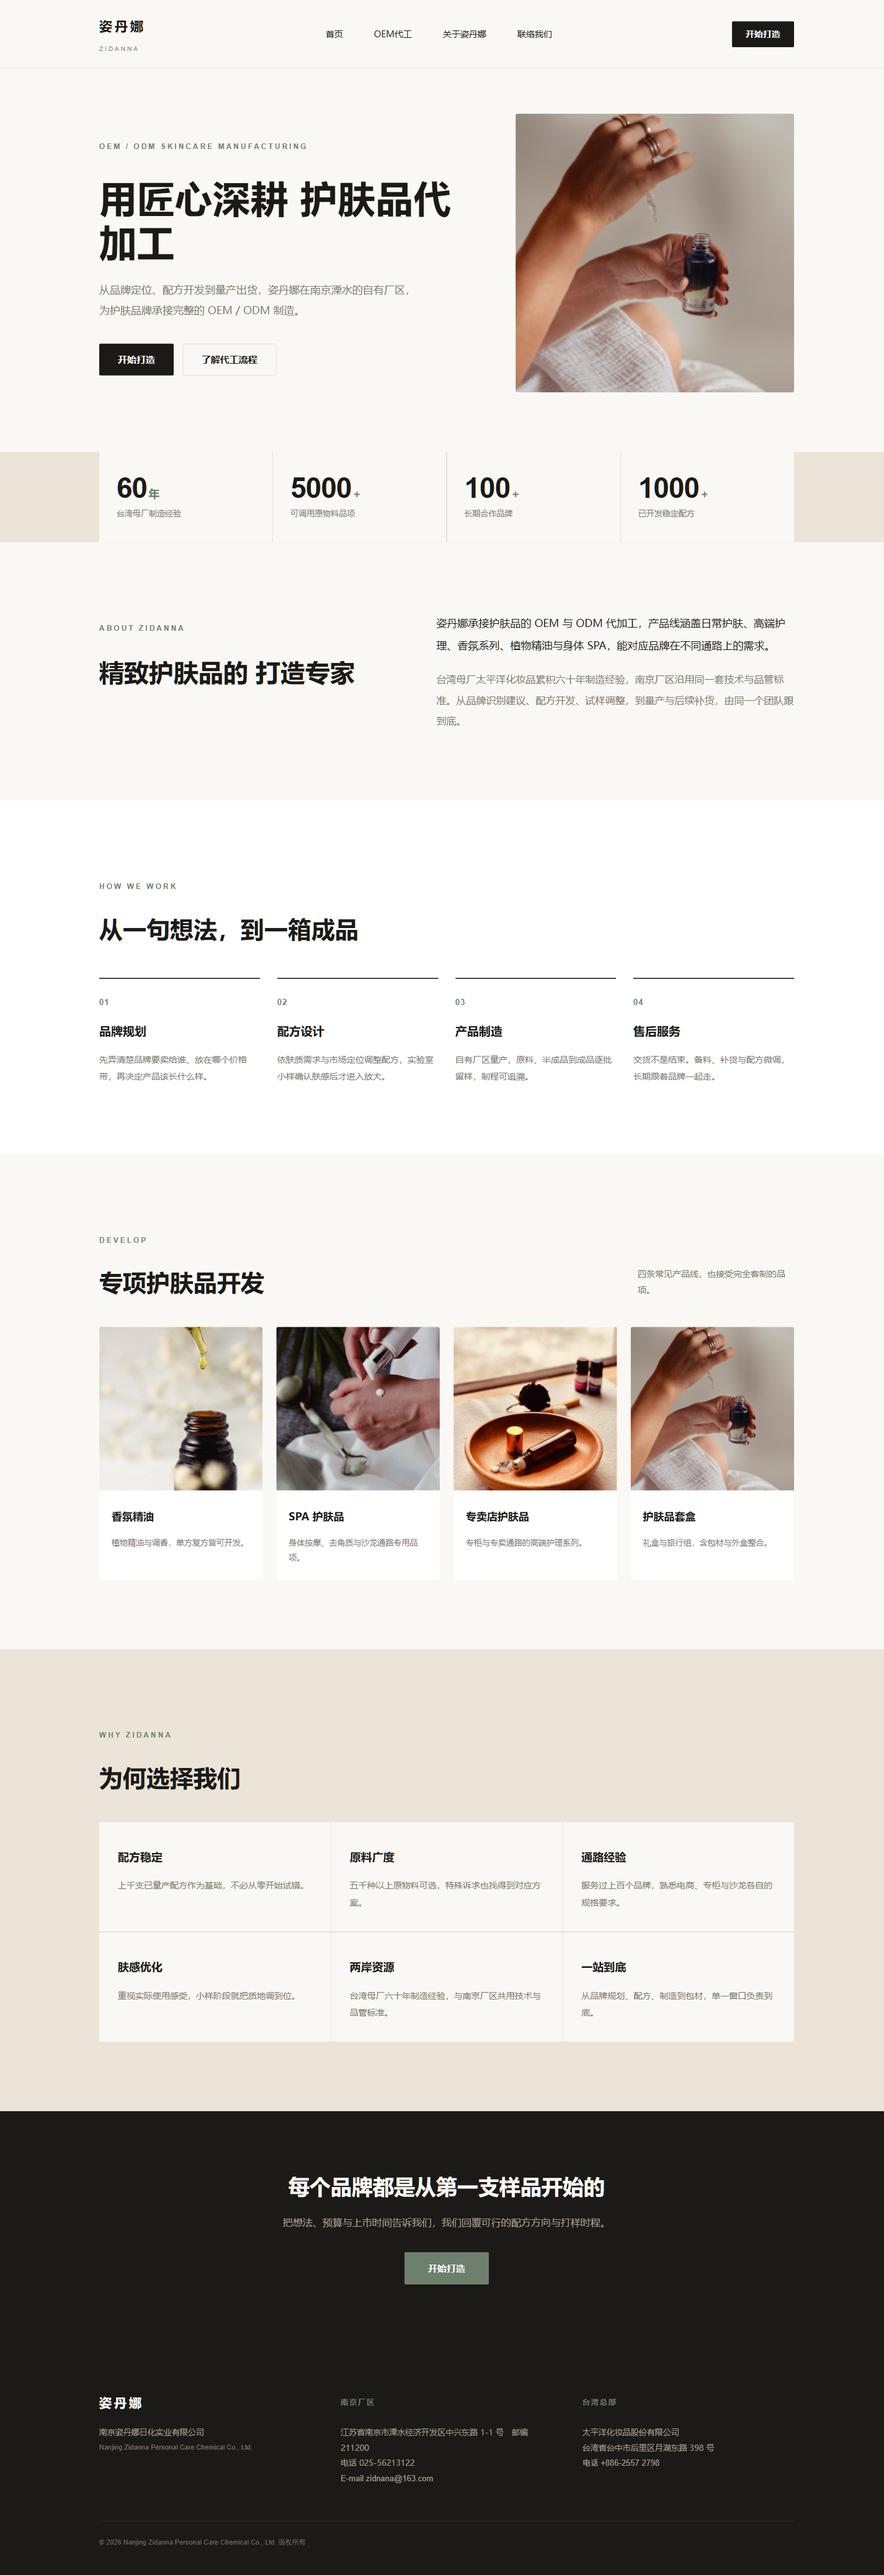
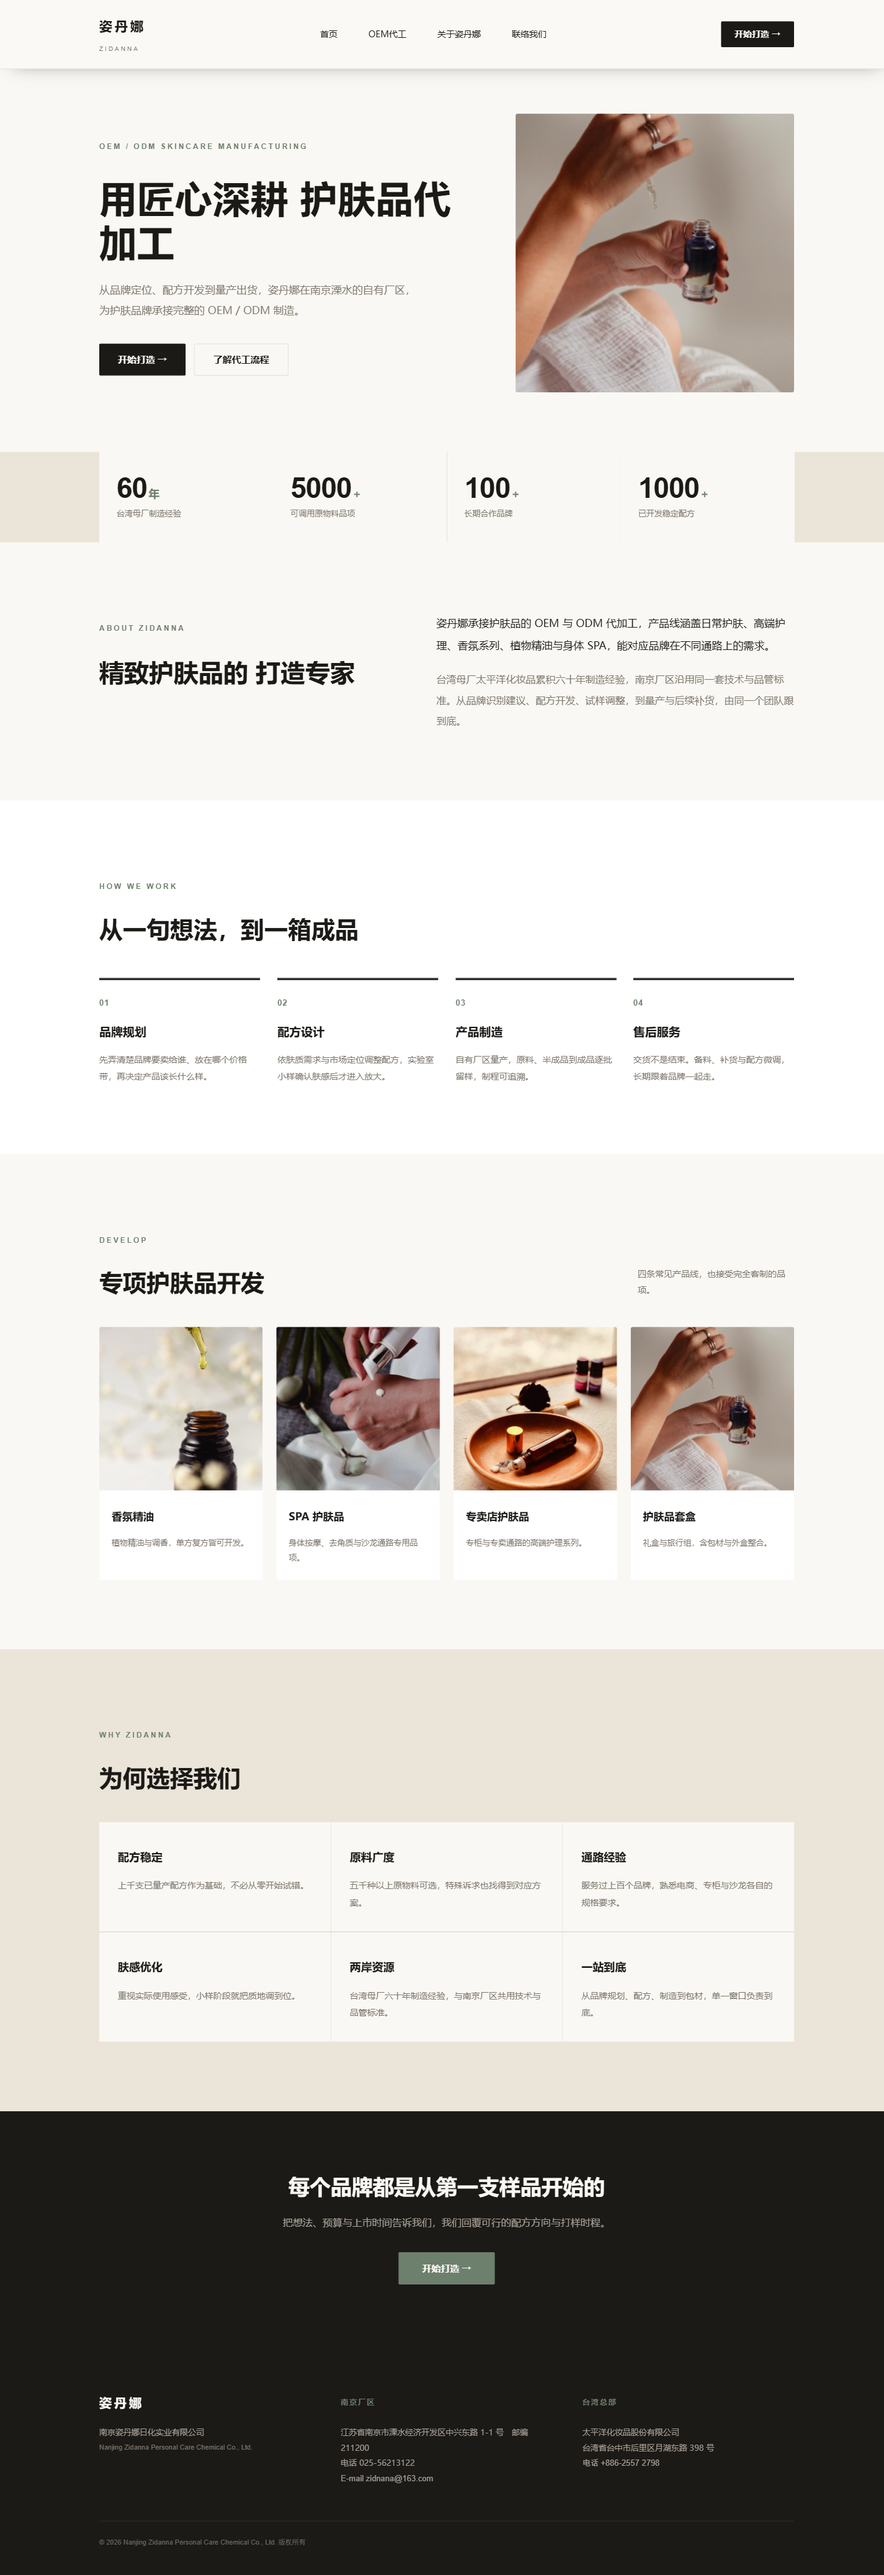
Add scroll-driven motion to the Zidanna build
Mosaic's own interaction system carries a trigger, an action slot and a keyframe
timeline into the browser but still cannot bind a property
(references/interactions.md), so the motion here is CSS. The unlock is that a
`code` node takes insertLocation "head" and raw content, which is the only way to
get @keyframes into the document - customStyles is emitted inside a rule and
cannot hold one. Every selector targets an attrID this build sets, so the
stylesheet and the tree stay in sync, and the whole thing is generated from the
same file as the spec.

What moves: sections and cards rise and fade on entry through
animation-timeline: view(), staggered by giving each sibling a later
animation-range; the rule above each process step draws left to right; the header
is sticky with a backdrop blur and gains its shadow through
animation-timeline: scroll(root); the hero image drifts on the same scroll
timeline; nav underlines and the category title rules wipe in on hover; and the
CTA arrows slide.

Both timelines are behind @supports and the whole block behind
prefers-reduced-motion, so a browser without scroll-driven animation shows the
page at rest rather than blank - the failure mode that matters when the initial
state is opacity 0.

Verified in the browser rather than assumed: view() and scroll() both supported,
zd-rise/zd-draw/zd-lift/zd-shadow all reported running by getAnimations(), and a
mid-scroll capture catches the four category cards genuinely staggered in flight.
[…]

diff --git a/sites/_zidanna.py b/sites/_zidanna.py
@@ -93,6 +93,89 @@ def clean(n):
     return n
 
 
+
+
+# ── motion ────────────────────────────────────────────────────────────────────
+# Mosaic's interaction system can carry a trigger and a keyframe timeline but not
+# yet a property binding (references/interactions.md), so scroll motion here is
+# plain CSS. A `code` node with insertLocation "head" injects a real <style> block,
+# which is the only way to declare @keyframes - customStyles is emitted inside a
+# rule and cannot hold one. Every selector targets an attrID this file sets, so the
+# stylesheet and the tree stay in sync.
+# What rises into view, and in what order. Kept as an explicit list rather than
+# threaded through every box() call: the stagger is a design decision and reads
+# better in one place than scattered across the tree.
+REVEALS = [
+    ("zd-hero-copy", 0), ("zd-hero-media", 1),
+    ("zd-stat-0", 0), ("zd-stat-1", 1), ("zd-stat-2", 2), ("zd-stat-3", 3),
+    ("zd-about-l", 0), ("zd-about-r", 1),
+    ("zd-process-in", 0),
+    ("zd-cat-head", 0), ("zd-cat-0", 1), ("zd-cat-1", 2), ("zd-cat-2", 3), ("zd-cat-3", 4),
+    ("zd-why-0", 0), ("zd-why-1", 1), ("zd-why-2", 2),
+    ("zd-why-3", 1), ("zd-why-4", 2), ("zd-why-5", 3),
+    ("zd-cta-in", 0),
+    ("zd-oem-hero-in", 0), ("zd-lines-in", 0), ("zd-oem-process-in", 0),
+    ("zd-line-0", 0), ("zd-line-1", 1), ("zd-line-2", 2), ("zd-line-3", 3), ("zd-line-4", 4),
+]
+
+DRAW_RULES = """@media (prefers-reduced-motion:no-preference){
+  @supports (animation-timeline:view()){
+    #zd-step-01,#zd-step-02,#zd-step-03,#zd-step-04,
+    #zd-oem-step-01,#zd-oem-step-02,#zd-oem-step-03,#zd-oem-step-04{
+      background-image:linear-gradient(rgb(28,26,23),rgb(28,26,23));
+      background-repeat:no-repeat;background-size:100% 2px;background-position:0 0;
+      animation:zd-draw .01s linear both;animation-timeline:view();
+      animation-range:entry 6% cover 26%;transform-origin:left center}
+  }
+}"""
+
+
+def motion_css():
+    """The head stylesheet. Every selector is an attrID this file sets."""
+    steps = "\n".join(
+        "    #%s{animation-range:entry %d%% cover %d%%}" % (attr, 4 + i * 5, 32 + i * 5)
+        for attr, i in REVEALS if i)
+    targets = ",".join("#" + attr for attr, _ in REVEALS)
+    return """<style id="zd-motion">
+@keyframes zd-rise{from{opacity:0;transform:translateY(26px)}to{opacity:1;transform:none}}
+@keyframes zd-draw{from{transform:scaleX(0)}to{transform:scaleX(1)}}
+@keyframes zd-lift{from{transform:scale(1.22) translateY(14px)}to{transform:scale(1.22) translateY(-18px)}}
+@keyframes zd-shadow{from{box-shadow:0 0 0 rgba(28,26,23,0)}to{box-shadow:0 10px 30px -22px rgba(28,26,23,.75)}}
+
+#zd-header{position:sticky;top:0;z-index:50;background:rgba(250,248,244,.86);
+  -webkit-backdrop-filter:saturate(1.6) blur(10px);backdrop-filter:saturate(1.6) blur(10px)}
+
+#zd-nav>*{position:relative}
+#zd-nav>*::after{content:"";position:absolute;left:0;right:100%%;bottom:-7px;height:1px;
+  background:rgb(109,127,109);transition:right .3s cubic-bezier(.2,.7,.3,1)}
+#zd-nav>*:hover::after{right:0}
+
+#zd-header-cta::after,#zd-cta-1::after,#zd-cta-3::after{content:" →";display:inline-block;
+  transition:transform .28s cubic-bezier(.2,.7,.3,1)}
+#zd-header-cta:hover::after,#zd-cta-1:hover::after,#zd-cta-3:hover::after{transform:translateX(5px)}
+
+#zd-cat-txt-0 h3,#zd-cat-txt-1 h3,#zd-cat-txt-2 h3,#zd-cat-txt-3 h3{position:relative;display:inline-block}
+#zd-cat-txt-0 h3::after,#zd-cat-txt-1 h3::after,#zd-cat-txt-2 h3::after,#zd-cat-txt-3 h3::after{
+  content:"";position:absolute;left:0;right:100%%;bottom:-5px;height:1px;background:rgb(109,127,109);
+  transition:right .38s cubic-bezier(.2,.7,.3,1)}
+#zd-cat-0:hover #zd-cat-txt-0 h3::after,#zd-cat-1:hover #zd-cat-txt-1 h3::after,
+#zd-cat-2:hover #zd-cat-txt-2 h3::after,#zd-cat-3:hover #zd-cat-txt-3 h3::after{right:0}
+
+%s
+
+@media (prefers-reduced-motion:no-preference){
+  @supports (animation-timeline:view()){
+    %s{animation:zd-rise .01s linear both;animation-timeline:view();animation-range:entry 4%% cover 32%%}
+%s
+  }
+  @supports (animation-timeline:scroll()){
+    #zd-header{animation:zd-shadow linear both;animation-timeline:scroll(root);animation-range:0 140px}
+    #zd-hero-img{animation:zd-lift linear both;animation-timeline:scroll(root);animation-range:0 640px}
+  }
+}
+</style>""" % (DRAW_RULES, targets, steps)
+
+
 # ── the shared shell ──────────────────────────────────────────────────────────
 NAV = [("首页", "/zidanna/"), ("OEM代工", "/zidanna-oem/"),
        ("关于姿丹娜", "/zidanna/#about"), ("联络我们", "/zidanna/#contact")]
@@ -101,7 +184,12 @@ HEADER = box("zd-header",
     {"backgroundColor": {"token": "--paper"}, "paddingTop": "20px", "paddingBottom": "20px",
      "paddingLeft": "48px", "paddingRight": "48px", "fontFamily": CJK,
      "customStyles": "border-bottom:1px solid rgb(226,219,208);"},
-    [wrap("zd-header-in", [
+    [
+     # a `code` node with insertLocation "head" is the only way to get @keyframes
+     # into the document - customStyles is emitted inside a rule and cannot hold one
+     {"type": "code", "data": {"attrID": "zd-motion-css", "insertLocation": "head",
+                               "content": motion_css(), "processShortcodes": "0"}},
+     wrap("zd-header-in", [
         {"type": "div", "data": {"attrID": "zd-header-row"},
          "style": {"&": {"_": {"display": "flex", "alignItems": "center",
                                "justifyContent": "space-between", "columnGap": "40px"}}},
